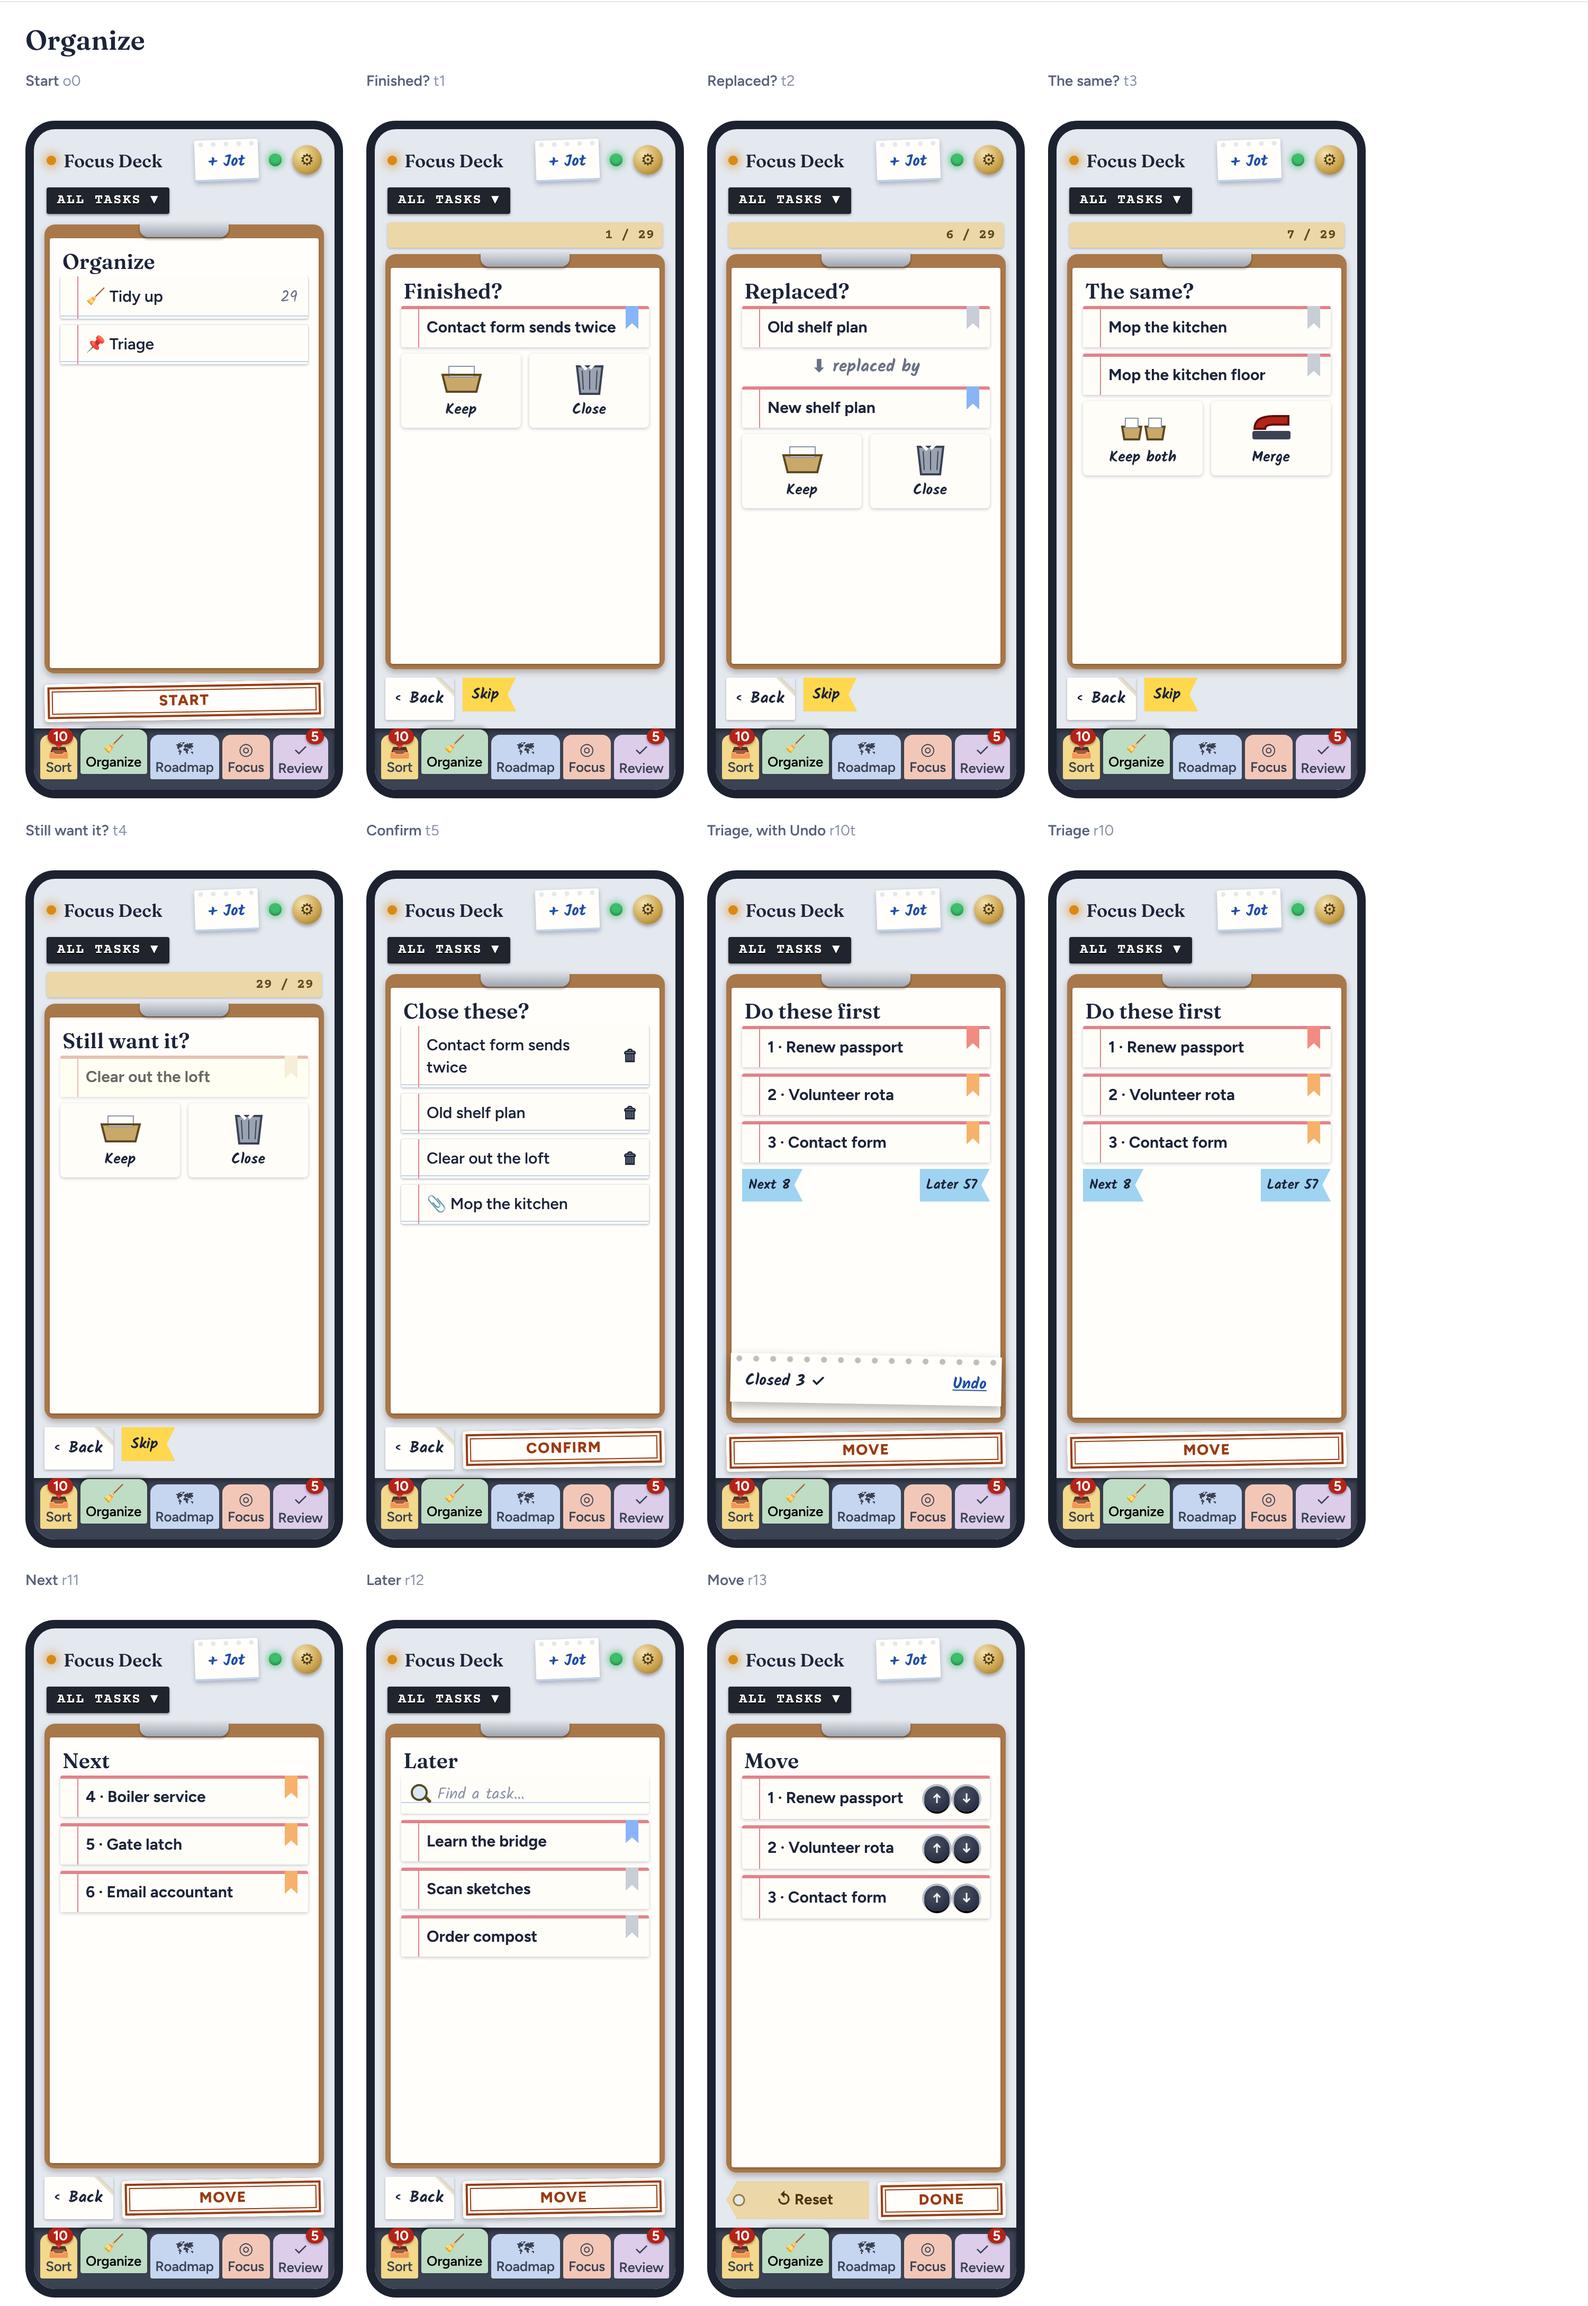
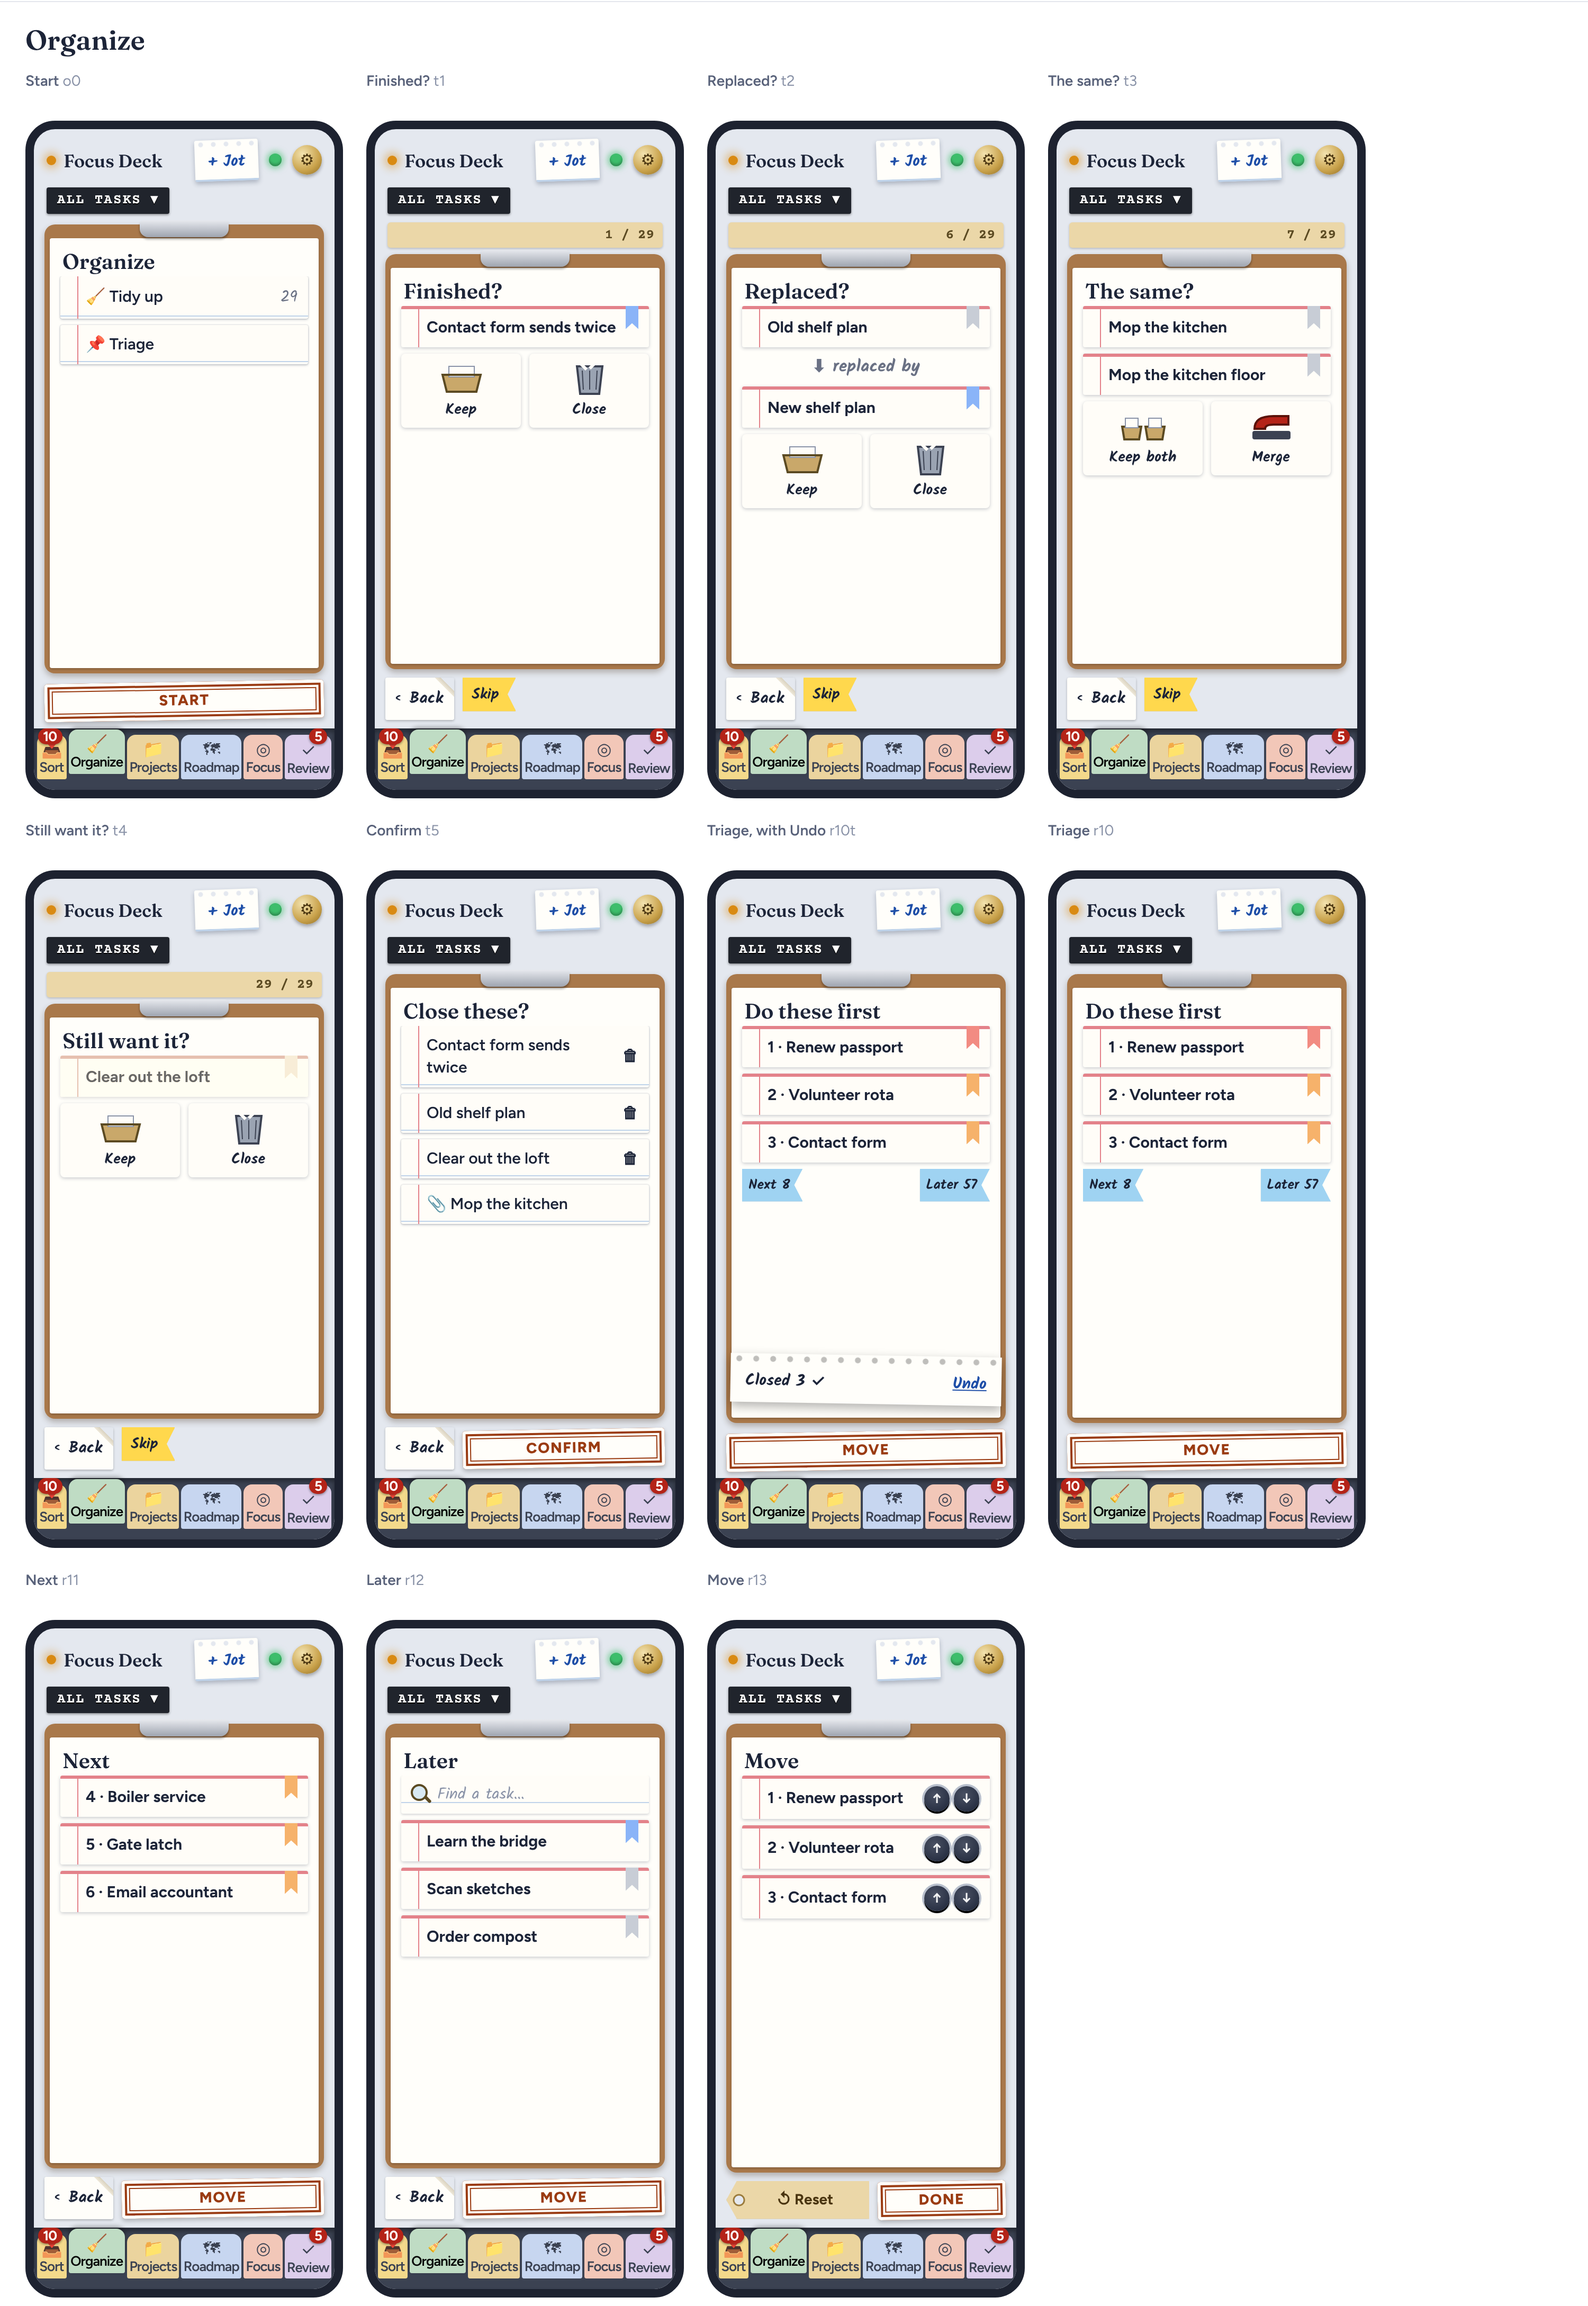
docs: move the project list into its own Projects tab in the step-by-step design
Committed by Edens Agent

diff --git a/docs/plans/friction-steps.html b/docs/plans/friction-steps.html
@@ -273,7 +273,7 @@ const PAGE = {
   "eyebrow": "Proposal · every screen drawn · nothing built yet",
   "approval": "Design approved: step by step",
   "short": {
-    "lead": "The app failed QA because it shows too much at once. This plan keeps every feature and asks one question per screen. This round takes out every caption, hint and line of small print, so each screen has to explain itself with pictures alone. Every one of the 82 screens fits on a phone without scrolling, and no text is smaller than 13px. Two scripts check both on every run, and a third confirms that all 125 things the app does today still have a screen. The pictures and the prototype are drawings. Nothing is built yet, and your app hasn't changed.",
+    "lead": "The app failed QA because it shows too much at once. This plan keeps every feature and asks one question per screen. Since the last version, the project list has moved out of Roadmap into its own Projects tab; the row named New, below, shows it. The version before that took out every caption, hint and line of small print, so each screen has to explain itself with pictures alone. Every one of the 82 screens fits on a phone without scrolling, and no text is smaller than 13px. Two scripts check those two limits on every run, and a third confirms that all 125 things the app does today still have a screen. The pictures and the prototype are drawings. Nothing is built yet, and your app hasn't changed.",
     "hint": "Tap each row to see its picture.",
     "key": [
       [
@@ -305,6 +305,19 @@ const PAGE = {
           "src": "friction-steps-pics/map-all-390.png",
           "alt": "20 phone screenshots of every screen in the app today",
           "caption": "Every screen today on a phone, left to right: Sort (5 states), Tidy up, Triage, Roadmap (8 states), Focus (2), Review, Settings and the welcome screen."
+        }
+      ],
+      [
+        "list",
+        "New",
+        "Projects gets its own tab",
+        "you",
+        "You asked for the project list to leave Roadmap. Projects is now a sixth tab, between Organize and Roadmap, drawn as a manila folder. It holds everything that was the first half of Roadmap: the list with Find and progress rulers, the Sort by drawer, your own order and the four New project steps. Roadmap now opens straight on one project (the last one you used), and the label-maker tape at the top switches project. '+ New project' left the Roadmap ⋯ drawer, because it lives in Projects now. Tapping a project in Projects still opens its Roadmap. Nothing else about Roadmap changed.",
+        "Check that six tabs still feel calm, and that Roadmap opening on the project you used last suits you.",
+        {
+          "src": "friction-steps-pics/p-tabs.png",
+          "alt": "Three phones: Roadmap today opening on the project list, then the new Projects tab and the new Roadmap tab",
+          "caption": "Before and after: the project list moves from Roadmap to its own Projects tab."
         }
       ],
       [
@@ -390,7 +403,7 @@ const PAGE = {
       ],
       [
         "list",
-        "Roadmap",
+        "Projects",
         "All projects, and a new project",
         "you",
         "The project list keeps Find, a progress ruler on each folder, and a drawer to sort by A to Z, most tasks, due soonest, last synced or your own order. A new project is four steps: name, area, colour, then GitHub (no, my repo, a new repo, or someone else's).",
@@ -398,7 +411,7 @@ const PAGE = {
         {
           "src": "friction-steps-pics/p-roadmap.png",
           "alt": "Eleven phone screens of the project list and a new project",
-          "caption": "All projects and New project."
+          "caption": "The Projects tab: all projects and New project."
         }
       ],
       [
@@ -406,7 +419,7 @@ const PAGE = {
         "Roadmap",
         "One project",
         "you",
-        "One milestone and one column at a time, with Previous, Next and All milestones. The ⋯ holds milestone settings, all milestones and sections (open, hide, reorder, add), find a task, edit project, sync and new project. Tapping a task opens what you can do to it: start it, send to review, mark done, move to another milestone, focus on this, make it a milestone, details. '+ Add a task' adds by name, or 'Add details…' runs the Sort steps. Milestone settings is two steps, with extra screens for entering your own number and for a checklist. Edit project is a list of lines that each open their step; Remove asks first.",
+        "One milestone and one column at a time, with Previous, Next and All milestones. The ⋯ holds milestone settings, all milestones and sections (open, hide, reorder, add), find a task, edit project and sync. Tapping a task opens what you can do to it: start it, send to review, mark done, move to another milestone, focus on this, make it a milestone, details. '+ Add a task' adds by name, or 'Add details…' runs the Sort steps. Milestone settings is two steps, with extra screens for entering your own number and for a checklist. Edit project is a list of lines that each open their step; Remove asks first.",
         "Check that the ⋯ menu doesn't hide something you use every day.",
         {
           "src": "friction-steps-pics/p-project.png",
@@ -471,6 +484,13 @@ const PAGE = {
   "changes": [
     [
       "chg",
+      "Tabs",
+      "A sixth tab, Projects, holds the project list and New project. Roadmap keeps only one project's milestones.",
+      null,
+      "You asked for this."
+    ],
+    [
+      "chg",
       "Header, jot box and switch",
       "Shrink to the name, a '+ Jot' button at the top and one 'Showing …' line. You picked this.",
       null,
@@ -507,7 +527,7 @@ const PAGE = {
     [
       "chg",
       "Roadmap",
-      "One milestone and one column at a time; actions in a list per task; a ⋯ menu.",
+      "Opens on one project: one milestone and one column at a time; actions in a list per task; a ⋯ menu.",
       null,
       "Drag still works on a computer."
     ],
@@ -527,7 +547,7 @@ const PAGE = {
     ],
     [
       "keep",
-      "Your data and the five tabs",
+      "Your data",
       "Nothing is removed; every feature keeps working.",
       null,
       "Only how much shows at once changes."
@@ -588,8 +608,8 @@ const PAGE = {
     ]
   ],
   "wrapup": {
-    "summary": "Every screen is drawn, 82 in all, with no small print and none taller than a phone. All 125 things the app does today have a screen. Sort becomes nine steps, Task details a receipt, Focus two questions, Tidy up and Review one task at a time, and the Roadmap one milestone at a time.",
-    "changing": "Changed: how much each screen shows at once, Sort, adding a task, Focus, Tidy up, Triage, the Roadmap, Task details and Milestone settings. Kept: every feature, your data, the five tabs, Review and Settings.",
+    "summary": "This round splits Roadmap in two: a new Projects tab holds the project list and New project, and Roadmap opens straight on one project. Everything else is as you saw it last time: 82 screens with no small print, none taller than a phone, and all 125 features with a screen.",
+    "changing": "Changed: a sixth tab for Projects, how much each screen shows at once, Sort, adding a task, Focus, Tidy up, Triage, Roadmap, Review, Task details and Milestone settings. Kept: every feature, your data, and Settings.",
     "blocking": "Waiting on your sign-off and your two remaining choices. The jot choice is already made: + Jot at the top.",
     "next": "After you approve, I'll write the build plan as GitHub issues and build it on the same test link. Nothing goes into the app you use until you've tested it.",
     "todo": [

diff --git a/docs/5-today/Today.md b/docs/5-today/Today.md
@@ -609,3 +609,10 @@ Eden asked that nothing in the prototype be a plain button or plain text, and th
 - shoot-prototype.cjs now fails on own text under 13px and on any screen taller than 660px. The last run passed: 82 screens, nothing cut off, nothing taller than a phone, no small text.
 - check-feature-map.cjs still passes: all 125 app actions are mapped.
 - docs/plans/friction-steps.json was rewritten to match. It still waits on Eden's sign-off. No app code was changed.
+
+## 2026-11-12: Projects becomes its own tab
+
+- Eden asked for the first half of Roadmap (all projects) to become a sixth tab, with nothing else changed.
+- In the prototype, Projects sits between Organize and Roadmap. It holds the project list, Sort by, My order and the four New project steps. Roadmap now opens on one project. '+ New project' left the Roadmap ⋯ drawer.
+- The tab bar was tightened so all six labels fit at 13px. shoot-prototype.cjs now also fails if the tab bar or any tab overflows sideways. The last run passed: 82 screens, no problems. check-feature-map.cjs still passes.
+- docs/generated/friction-steps/make-tabs-picture.cjs draws p-tabs.png, a before-and-after of the split. The proposal page has a new row, New, that shows it.
